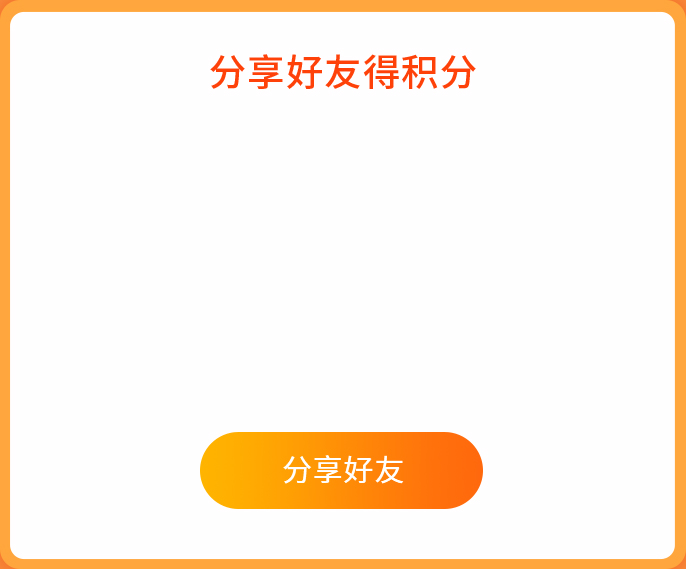
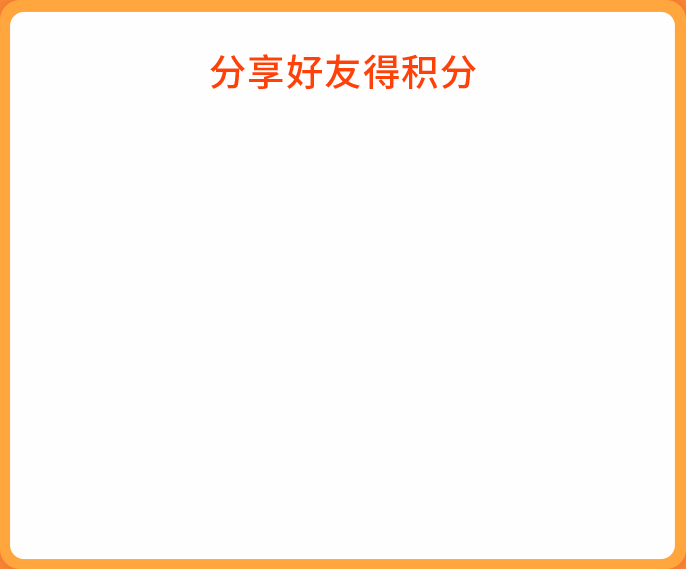
12

Changed region(s): [[0.2755, 0.7469, 0.7041, 0.8963]]

diff --git a/pages/user/task/invite/invite.vue b/pages/user/task/invite/invite.vue
@@ -3,12 +3,13 @@
 		<view class="Box">
 			<view class="imgBox">
 				<image :src="s" mode=""></image>
-				<view @tap='capture'>
-					<image src='../../../../static/f.jpg'></image>
+				<view>
+					<image :src='s1'></image>
 					<view>
 						<tki-qrcode :val='val' size='250' style='width:250rpx;height:250rpx;position:absolute;top:0;left:0;right:0;bottom:0;margin:auto;'></tki-qrcode>
 					</view>
 				</view>
+				<image :src='s2' style='width:284rpx;height:77rpx;position:absolute;left:calc(50% - 143rpx);bottom:100rpx;' @tap='capture'></image>
 			</view>
 
 			<!-- 文字较多时，内部进度条 -->
@@ -24,6 +25,8 @@
 		data() {
 			return {
 				s: '../../../../static/ff.jpg',
+				s1:'../../../../static/f.jpg',
+				s2:'../../../../static/fff.png',
 				w: '',
 				val: ''
 			}
@@ -47,14 +50,22 @@
 				var pages = getCurrentPages();
 				var page = pages[pages.length - 1];
 				console.log("当前页" + pages.length - 1);
+				var _this=this
+				this.s='../../../../static/ff1.png'
+				this.s1='../../../../static/f1.png'
+				this.s2='../../../../static/fff1.png'
 				var bitmap = null;
 				var currentWebview = page.$getAppWebview();
 				bitmap = new plus.nativeObj.Bitmap('amway_img');
 				// 将webview内容绘制到Bitmap对象中  
+				setTimeout(function(){
 				currentWebview.draw(bitmap, function() {
 					console.log('截屏绘制图片成功');
 					bitmap.save("_doc/a.jpg", {}, function(i) {
 						console.log('保存图片成功：' + JSON.stringify(i));
+						_this.s='../../../../static/ff.jpg'
+						_this.s1='../../../../static/f.jpg'
+						_this.s2='../../../../static/fff.png'
 						uni.saveImageToPhotosAlbum({
 							filePath: i.target,
 							success: function() {
@@ -84,6 +95,7 @@
 				}, function(e) {
 					console.log('截屏绘制图片失败：' + JSON.stringify(e));
 				});
+				},200)
 				//currentWebview.append(amway_bit);    
 			}
 		}

diff --git a/pages/user/alter/alter.vue b/pages/user/alter/alter.vue
@@ -64,7 +64,8 @@
 				<view class="img_a">
 					<image src="../../../static/icon_26.png" mode=""></image>
 				</view>
-				<text style='font-size:26rpx;line-height:70rpx;color:#999;' @tap='bindZfb'>绑定支付宝</text>
+				<text style='font-size:26rpx;line-height:70rpx;color:#999;' v-if='aliOpenid'>已绑定支付宝</text>
+				<text style='font-size:26rpx;line-height:70rpx;color:#999;' v-if='!aliOpenid' @tap='bindZfb'>绑定支付宝</text>
 			</view>
 		</view>
 
@@ -75,11 +76,12 @@
 			<view class="imgTitle">
 				<text>微信</text>
 			</view>
-			<view class="right_a" @tap='bindWx'>
+			<view class="right_a">
 				<view class="img_a">
 					<image src="../../../static/icon_26.png" mode=""></image>
 				</view>
-				<text style='font-size:26rpx;line-height:70rpx;color:#999;'>绑定微信</text>
+				<text style='font-size:26rpx;line-height:70rpx;color:#999;' v-if='openid'>已绑定微信</text>
+				<text style='font-size:26rpx;line-height:70rpx;color:#999;' v-if='!openid' @tap='bindWx'>绑定微信</text>
 			</view>
 		</view>
 		<!-- <view class="basic">
@@ -120,6 +122,8 @@
 				// ceshi: '',
 				// ceshiT: '',
 				// ceshiS: ''
+				openid:false,
+				aliOpenid:false
 			}
 		},
 		onLoad() {
@@ -133,6 +137,8 @@
 					// _this.nickname = res.data.data.nickname
 					// // console.log(res.data.data)
 					_this.phone = res.data.data.phone
+					_this.openid=res.data.data.openid
+					_this.aliOpenid=res.data.data.aliOpenid
 					// console.log(res.data.data)
 				}
 			})
